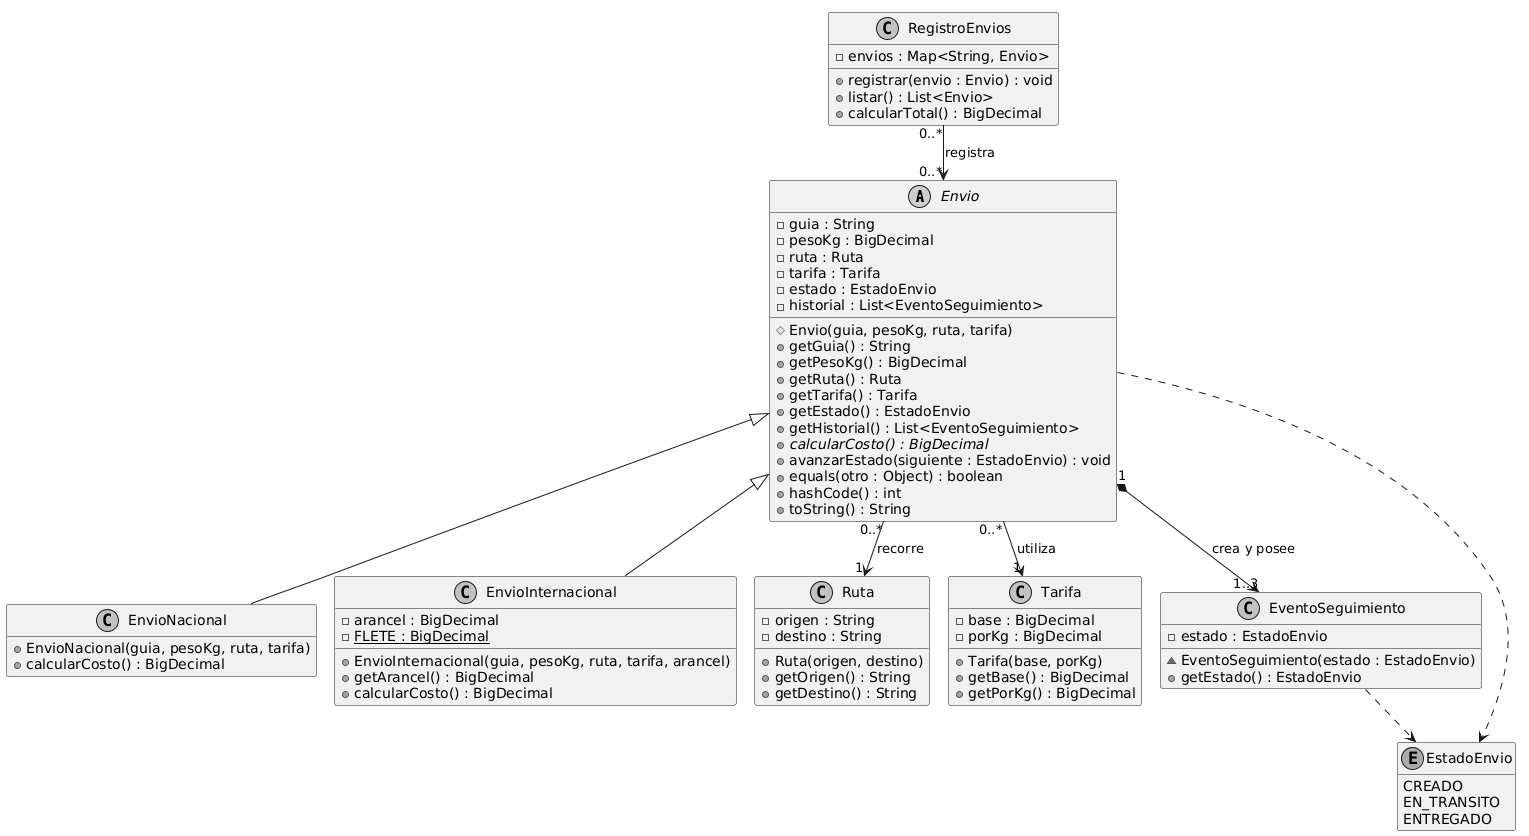
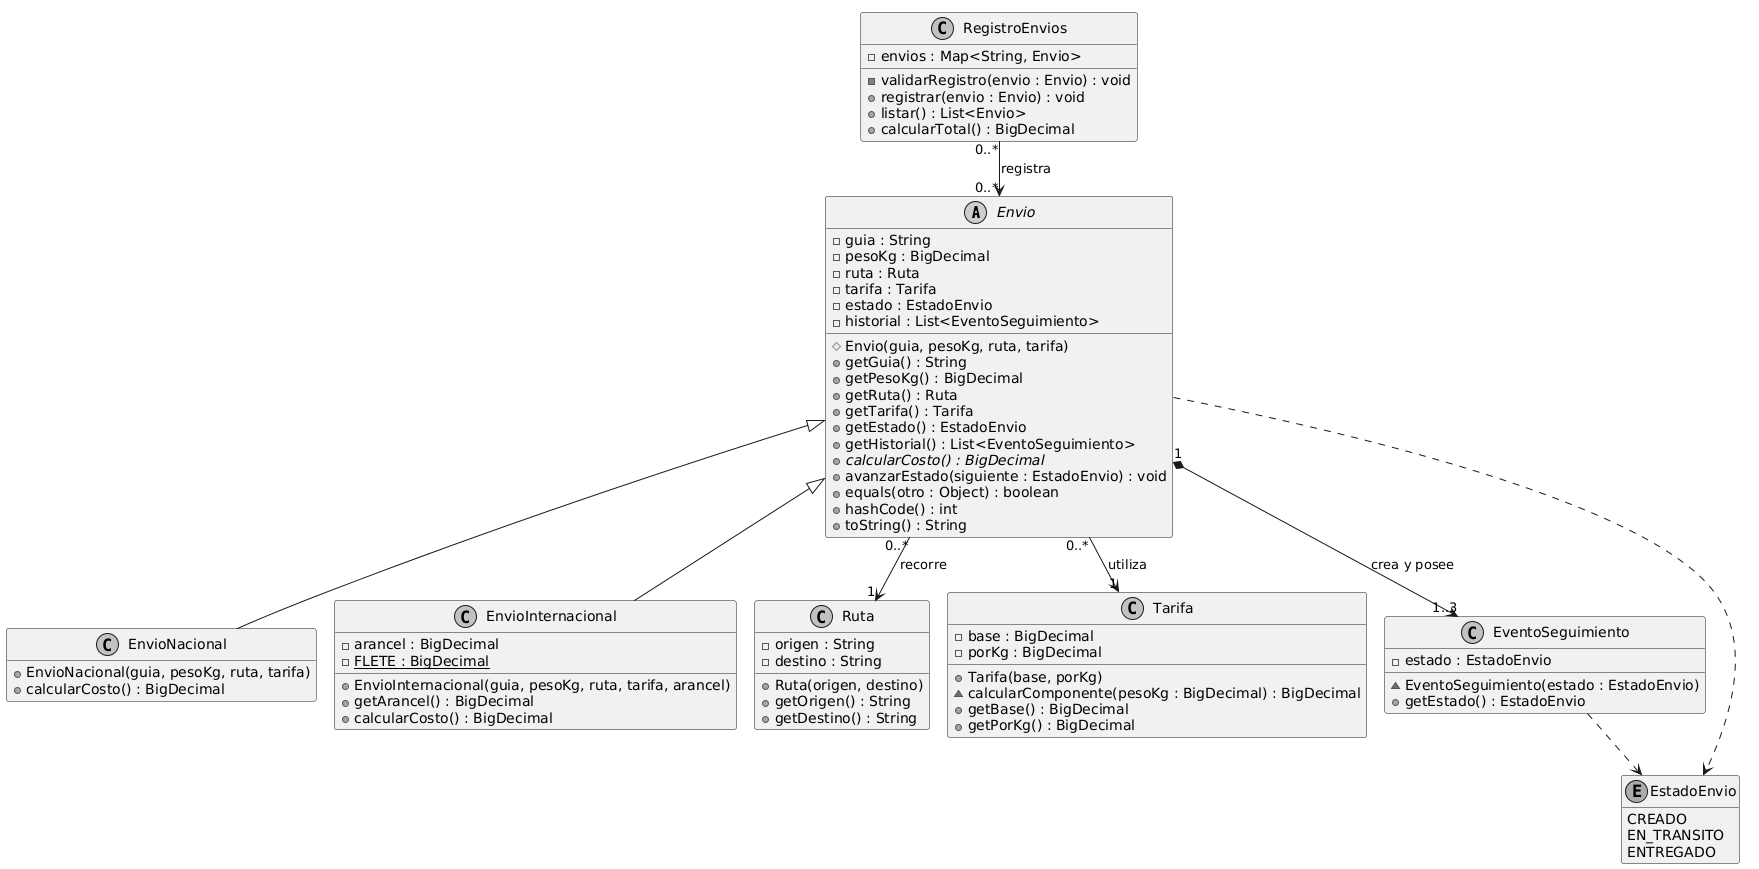
Separa validacion de registro y conserva 31 casos aprobados

Changed region(s): [[0.0, 0.0, 0.9836, 0.8708], [0.8914, 0.8708, 1.0, 0.9952]]

diff --git a/src/main/java/co/edu/eseit/logistica/RegistroEnvios.java b/src/main/java/co/edu/eseit/logistica/RegistroEnvios.java
@@ -8,11 +8,14 @@ import java.util.Map;
 public final class RegistroEnvios {
     private final Map<String, Envio> envios = new LinkedHashMap<>();
     public void registrar(Envio envio) {
+        validarRegistro(envio);
+        envios.put(envio.getGuia(), envio);
+    }
+    private void validarRegistro(Envio envio) {
         if (envio == null) throw new IllegalArgumentException("Envío obligatorio");
         if (envios.containsKey(envio.getGuia())) {
             throw new IllegalArgumentException("Guía duplicada: " + envio.getGuia());
         }
-        envios.put(envio.getGuia(), envio);
     }
     public List<Envio> listar() { return List.copyOf(envios.values()); }
     public BigDecimal calcularTotal() {
